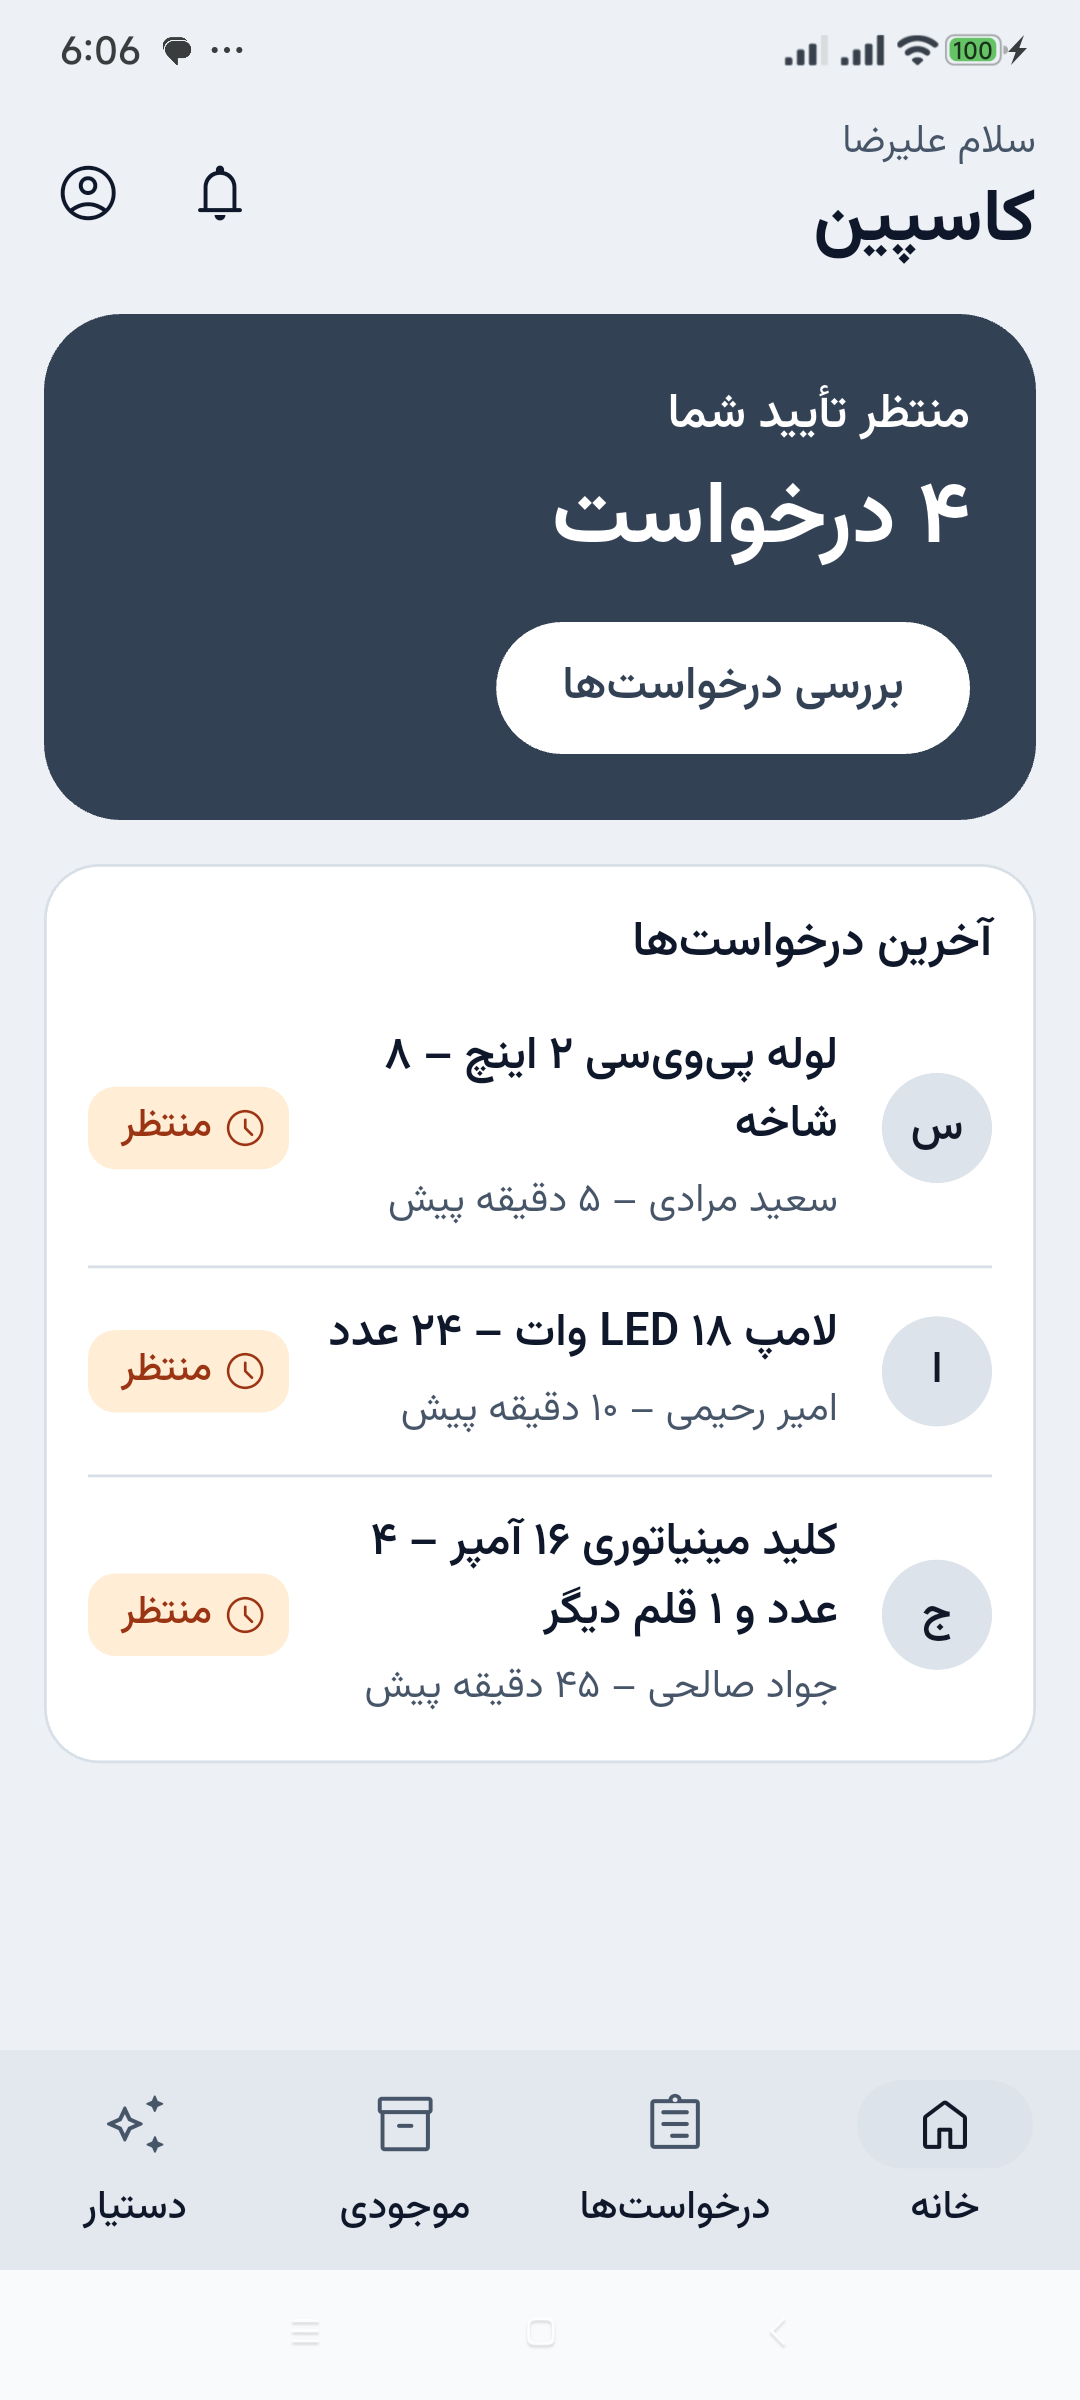
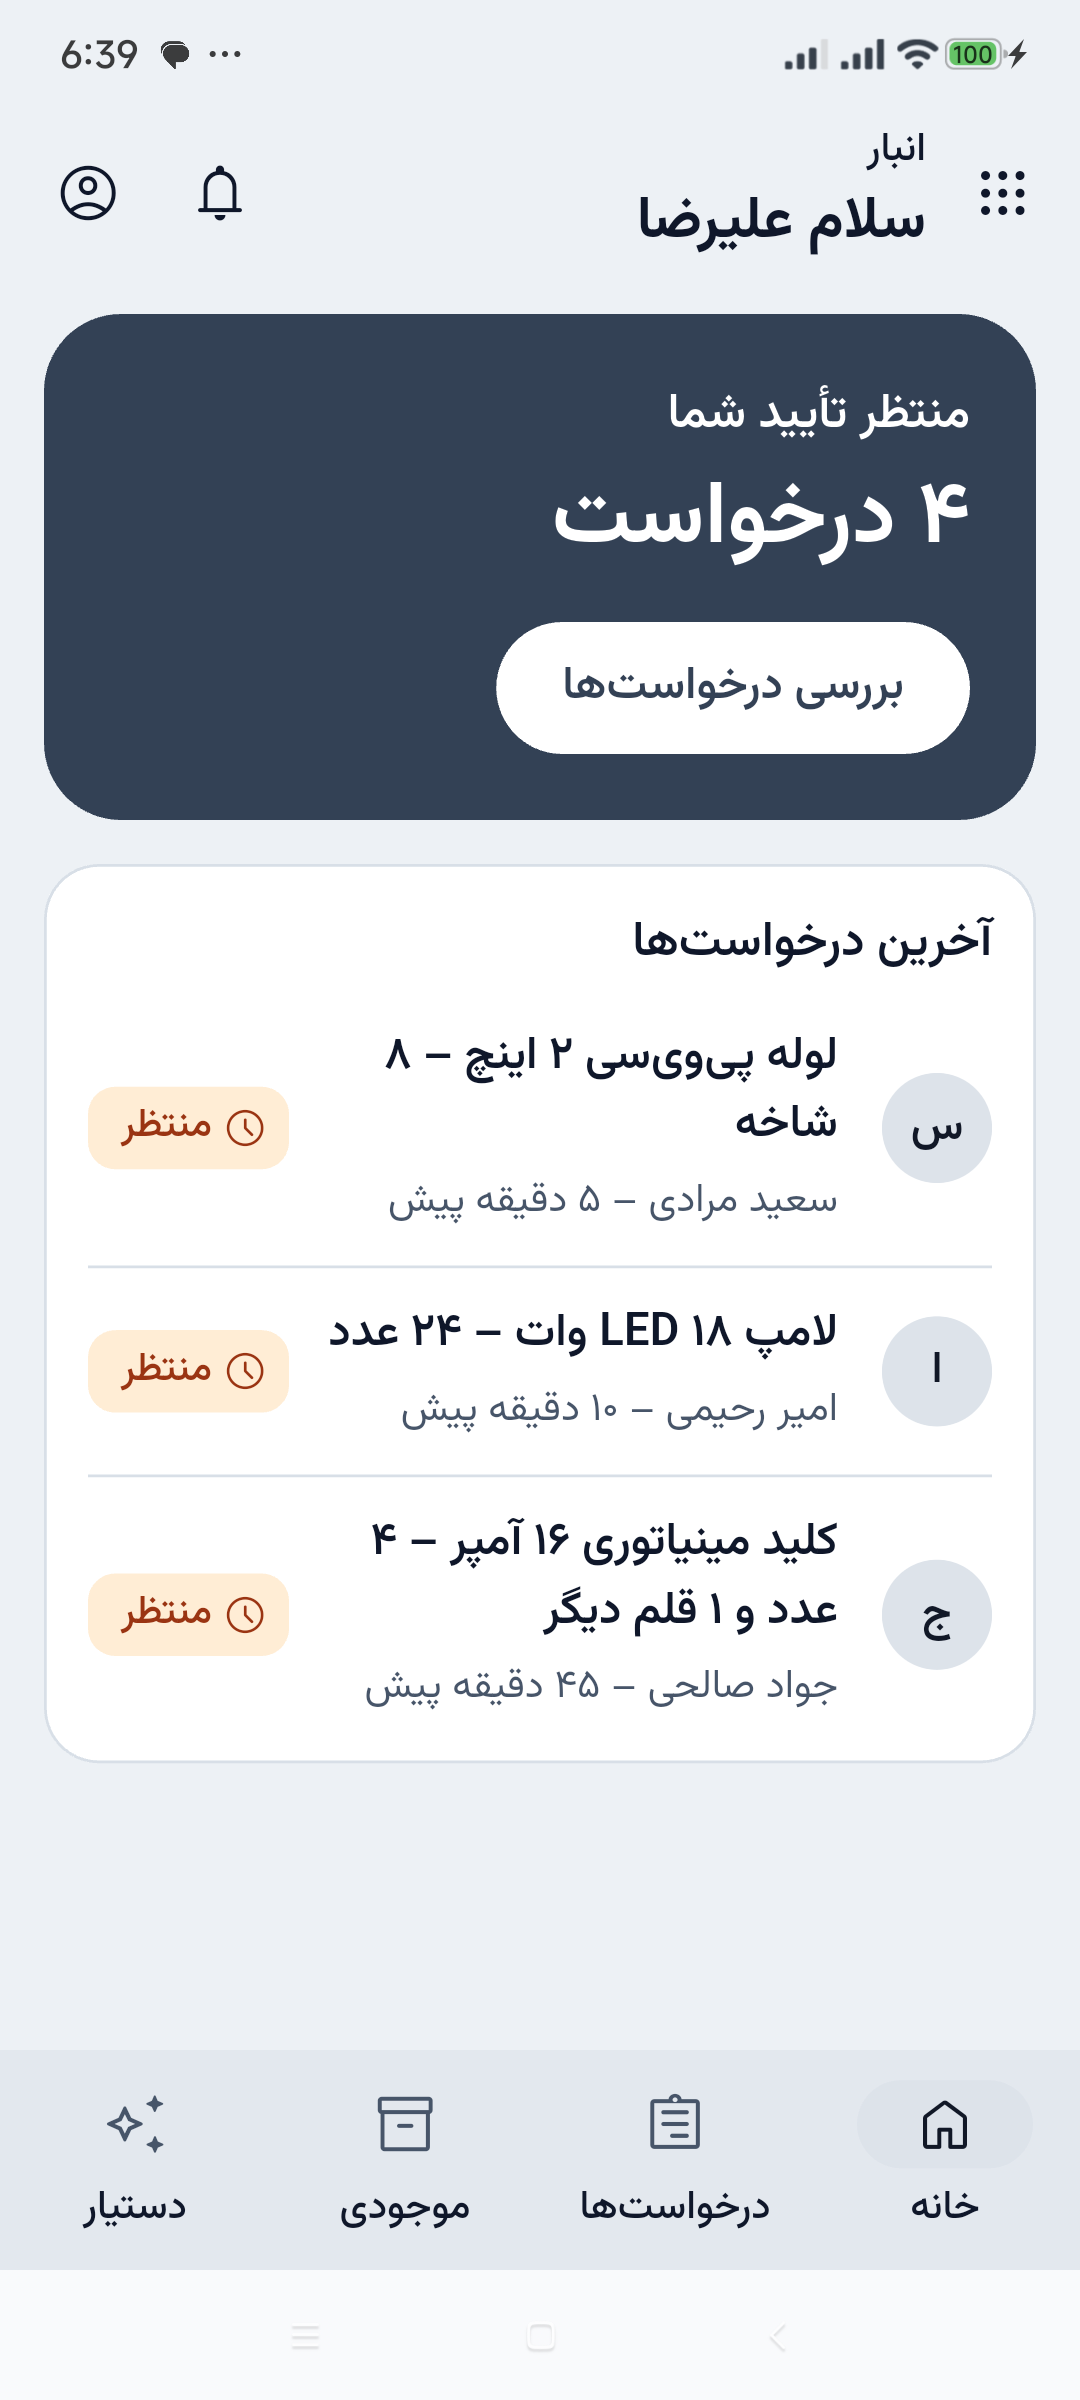
Document the hub and the module registry

Changed region(s): [[0.6111, 0.0, 0.9472, 0.125], [0.0611, 0.0, 0.1222, 0.0312], [0.1528, 0.0, 0.1833, 0.0312]]

diff --git a/docs/ARCHITECTURE.md b/docs/ARCHITECTURE.md
@@ -10,7 +10,7 @@
 - The owner app talks **only to the middle server** through the contract `api/openapi.yaml` (OpenAPI 3.1, `/v1/...`). Until the server exists, mock repositories return contract-valid data. Switching to the real server changes one config value.
 
 ## Warehouse ↔ server sync (document only, not built here)
-- The **Warehouse always initiates** the connection: it pushes events from its outbox, then polls the server for owner decisions and count orders.
+- The **Warehouse always initiates** the connection: it pushes events from its outbox, then polls the server for owner decisions (count orders were removed from the owner app in v0.2.0).
 - **No port is ever opened on the mall network.**
 - Server plan: an Iranian VPS, FastAPI + PostgreSQL/MariaDB.
 - Outbox events: `locations.snapshot`, `stock.snapshot`, `request.created`, `request.decided` (including manager decisions), `voucher.issued`, `count.ordered`, `count.result`.
@@ -26,7 +26,7 @@
 - **Contract:** `api/openapi.yaml`. Beyond the minimum schemas it adds `GoodsRequest.escalated` (owners decide only escalated requests; routine ones are shown read-only), `AlreadyDecided` (the `409` body carrying the winning decision), `LocationUsage` (same-place history), `NotificationEvent` (with an in-app deep-link `target`) and `Location.merged_with`.
 - **Models:** freezed classes per feature (`features/*/domain/`), shared ones in `core/domain/` (people, places, config).
 - **Repositories:** interfaces in `features/*/domain/*_repository.dart`; failures are the sealed `ApiException` family (`core/network/api_exception.dart`).
-- **Mock backend:** `core/mock/`. One in-memory server (`MockBackend`) loads the JSON fixtures in `assets/mock/` through the contract models, shifts their dates to "now", and applies the server's rules: first decision wins (`409`), idempotency keys, counts hide stock, stock never auto-adjusted. Scenarios for the developer screen: normal, empty, slow network, server error, conflict.
+- **Mock backend:** `core/mock/`. One in-memory server (`MockBackend`) loads the JSON fixtures in `assets/mock/` through the contract models, shifts their dates to "now", and applies the server's rules: first decision wins (`409`), idempotency keys, items the Warehouse app is counting hide their stock, stock never auto-adjusted. Scenarios for the developer screen: normal, empty, slow network, server error, conflict.
 - **Locations:** `assets/mock/caspian_locations.csv` is the Warehouse seed file, byte-identical to commit `2f26c614` on `feature/a-consumption-locations` of `Caspian_Warehouse`. Re-sync from `main` after that branch is merged. Floors and their display names live in `core/domain/place.dart` (`Floors.all`, building order P4 → ROOF).
 - **Switch to the real server:** `core/config/api_config.dart`, one value (`ApiConfig.dataSource`).
 
@@ -36,7 +36,18 @@
 - Implementation: `core/storage/` (drift). `CacheStore` keeps contract JSON per key with its time. `PendingDecisionQueue`: every decision is enqueued, then flushed. At most one entry per request (a newer decision replaces an unsent one); `409` removes it and reports the winner; offline keeps it and stops the flush; the same key is reused on every retry. `AppDatabase.wipe()` runs on logout.
 
 ## Modules
-An `AppModule` registry lets other Caspian apps (parking, services, CRM) contribute Home cards, More entries and routes, enabled per role through server feature flags (mocked now).
+The app opens on the **«کاسپین» hub** (`/`): one tile per Caspian module. Each active module has **its own bottom tabs (max 4)**. The owner app only gets *partial* access to each Caspian app (approvals, overviews, chat), never the full app.
+
+- `core/modules/app_module.dart`:
+  - `AppModule` has `id`, `title`, `subtitle`, `icon`, `tabs` (`ModuleTab`: label, icon, path, builder, sub-routes), `badge(ref)` for the hub tile, and `moreEntries`.
+  - `ComingSoonModule` is an announced module without screens: a «بهزودی» tile that opens `/m/:id`.
+- `moduleRegistryProvider` lists the compiled modules: `WarehouseModule` (`lib/features/warehouse_module.dart`) plus parking, CRM and services as coming soon.
+- The server decides what is shown: `AppConfig.modules` (active) and `AppConfig.upcomingModules` (coming soon), mocked in `assets/mock/config.json`. Anything else is hidden.
+- The router builds one `StatefulShellRoute` per module from its tabs, so a real module plugs in without touching the shell or the hub.
+- `ModuleShell` draws the module's tabs. Android Back on another tab goes to the first tab, and from the first tab back to the hub.
+- Tab screens use `ModuleAppBar`: the module name, the page title, and a button back to the hub.
+- More, Settings, About, notifications and the avatar are global, reachable from the hub and from inside modules.
+- Paths are stable: the warehouse tabs keep `/requests`, `/stock` and `/assistant` (notification links since v0.1.0); only its Home moved from `/` to `/warehouse`. Pages that should cover the tabs attach to `rootNavigatorKey` (`core/router/navigator_keys.dart`).
 
 ## Android specifics
 - applicationId `com.alirezamolayari.caspianowner` (permanent). minSdk 24 (Flutter 3.47.7's floor), targetSdk 36.

diff --git a/CLAUDE.md b/CLAUDE.md
@@ -3,11 +3,11 @@
 **Start every session by reading `docs/PROGRESS.md`.** Its first line says what to do next.
 
 ## What this is
-Private Android app (Flutter) for the ~5 owners of Caspian furniture mall (building **Phase 2** only). Owners approve **escalated** goods requests from the Caspian Warehouse desktop app, see stock, order **surprise counts** (شمارش غافلگیرانه), chat per request, and use a mock AI assistant «دستیار کاسپین». Owner and developer: **Alireza Molayari** (not a programmer; he tests by using the app). Report to him in short, plain language.
+Private Android app (Flutter) for the ~5 owners of Caspian furniture mall (building **Phase 2** only). Owners approve **escalated** goods requests from the Caspian Warehouse desktop app, see stock, send rejected requests back for changes, chat per request, and use a mock AI assistant «دستیار کاسپین». Surprise counts were removed in v0.2.0 (see docs/ROADMAP.md). Owner and developer: **Alireza Molayari** (not a programmer; he tests by using the app). Report to him in short, plain language.
 
 - The **Warehouse app** (`alirezamolayari-prog/Caspian_Warehouse`: Python, PySide6, MariaDB) is the source of truth. This app talks **only to a future middle server**, never to the warehouse DB. Until the server exists, everything runs on **mock repositories** that follow `api/openapi.yaml` exactly. Switching to the real server = one config value.
 - Request rules: routine requests are approved in the Warehouse app; important ones (amount/qty threshold, important item, manual) are escalated to owners. **The first decision wins**; the others see «تأیید شد توسط <name>» (server answers `409`).
-- Surprise count: starts immediately; items are locked and their stock is hidden from everyone (`qty: null`, `locked_by_count`) until staff count. Results show system vs counted qty, every entry, who counted. **Stock is never auto-adjusted.**
+- Items the Warehouse app is counting come with `qty: null` and `locked_by_count`; show «در حال شمارش در انبار». **Stock is never auto-adjusted.**
 - Places are always `location_code` + `floor_code`, never internal ids. Floors in building order: P4, P3, P2, P1, B (زیرهمکف), G (همکف), F1, F2, F3, ROOF (بام).
 
 ## Stack and environment
@@ -59,12 +59,13 @@ flutter build apk --release   # signed with android/key.properties, else the DEB
 - Branding lives in **one place**: `lib/core/brand/brand.dart` plus Android resources (the product will be renamed and resold).
 
 ## UI rules
-- Follow the approved UI spec: exactly 4 bottom tabs (خانه · درخواستها · موجودی · دستیار); everything rare goes in More (from the avatar). One primary action per screen.
+- The app opens on the «کاسپین» **hub**, then each module has its own bottom tabs (max 4). The warehouse's are خانه – درخواستها – موجودی – دستیار. Everything rare goes in More (from the avatar, on the hub and in modules). One primary action per screen. Module tab screens use `ModuleAppBar`; new modules plug into the registry (see docs/ARCHITECTURE.md › Modules).
+- Lists use zebra rows (`CardSliverList` / `ZebraRow`) on an off-white page with bordered cards; theme tokens only.
 - Colors only from the theme tokens (no hex in widgets). Light and dark themes; follow the system.
 - RTL everywhere, Persian digits, Jalali dates, relative times. **All strings in ARB files**; no hard-coded text in widgets.
 - 48dp touch targets, contrast ≥ 4.5:1, status always as text (never color alone), no swipe-only actions, semantic labels on icon buttons, must work at the largest system font size.
 - Separator in visible text is « – » (en dash), never «·»: next to Persian digits the middle dot reads as Persian zero («۲۴ · عدد» looks like «۲۴۰ عدد»). So the UI spec's «پلاک ۶۸ · همکف» is shown as «پلاک ۶۸ – همکف».
-- Long lists are lazy (`ListView.builder` / `SliverList.builder` with `CardSegment` for the grouped-card look).
+- Long lists are lazy (`CardSliverList`: one bordered card with zebra rows).
 - `test/features/accessibility_test.dart` checks tap targets, labels and contrast on the main screens; add new screens to it.
 - Use the `ui-ux-pro-max` skill for UI decisions (`--stack flutter`, `--domain ux`).
 
